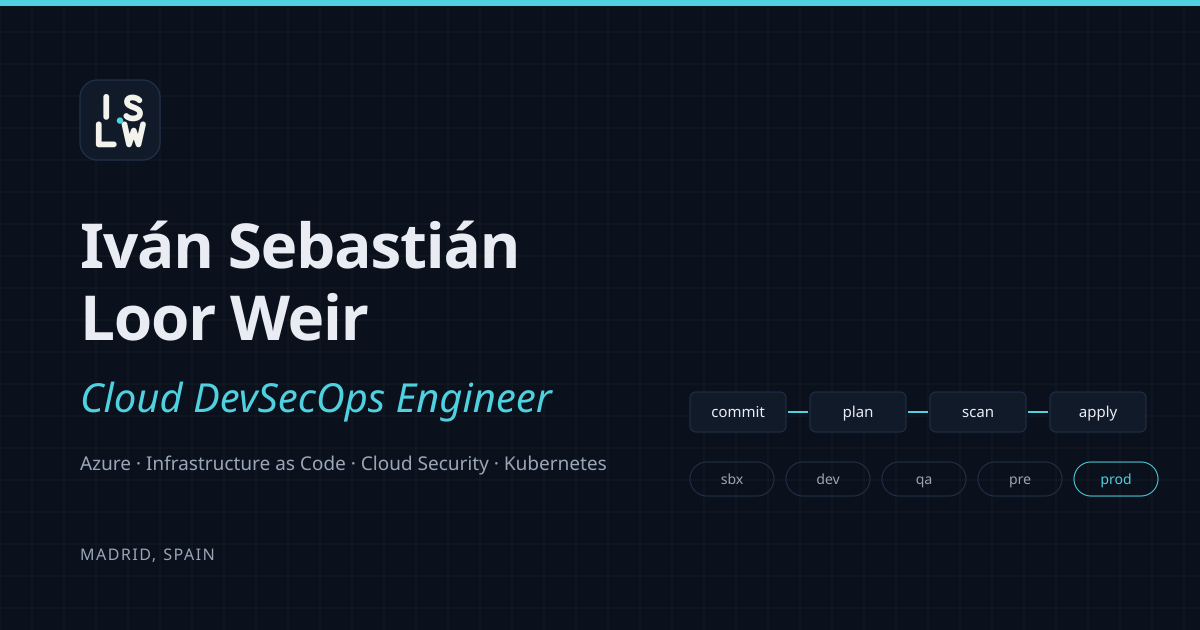
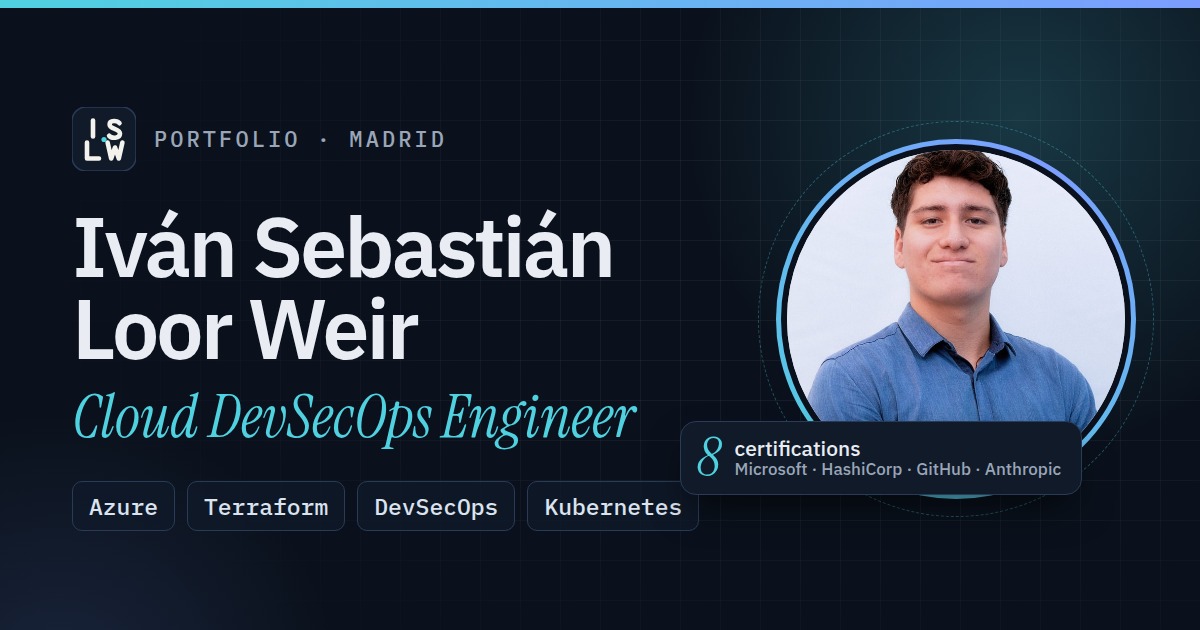
feat(brand): redesign Open Graph image for LinkedIn Featured previews
- New 1200×630 card built in HTML with the site's real typefaces and rendered
  by headless Chrome (npm run og): large name, accent title, framed portrait,
  certification badge, key technologies — legible at thumbnail size
- Certification count read from certifications.yaml; all four issuers named
- Brand-icon script no longer overwrites the OG image
- README documents the OG workflow and LinkedIn cache refresh

diff --git a/scripts/og/og-image.html b/scripts/og/og-image.html
@@ -1,0 +1,151 @@
+<!doctype html>
+<!--
+  Open Graph / LinkedIn "Featured" preview — 1200×630.
+  Rendered to public/og-image.png by scripts/generate-og-image.mjs using
+  headless Chrome, so it uses the site's real typefaces.
+
+  Small-size legibility rules: one focal name, one accent title, a portrait for
+  instant recognition, and no text below ~22px. Everything important sits
+  inside a 64px safe margin (LinkedIn may crop card edges slightly).
+-->
+<html lang="en">
+  <head>
+    <meta charset="utf-8" />
+    <style>
+      @font-face { font-family: 'Plex Sans'; font-weight: 500; src: url('{{FONTS}}/ibm-plex-sans/files/ibm-plex-sans-latin-500-normal.woff2') format('woff2'); }
+      @font-face { font-family: 'Plex Sans'; font-weight: 600; src: url('{{FONTS}}/ibm-plex-sans/files/ibm-plex-sans-latin-600-normal.woff2') format('woff2'); }
+      @font-face { font-family: 'Plex Mono'; font-weight: 500; src: url('{{FONTS}}/ibm-plex-mono/files/ibm-plex-mono-latin-500-normal.woff2') format('woff2'); }
+      @font-face { font-family: 'Instrument Serif'; font-style: italic; src: url('{{FONTS}}/instrument-serif/files/instrument-serif-latin-400-italic.woff2') format('woff2'); }
+
+      * { margin: 0; padding: 0; box-sizing: border-box; }
+      html, body { width: 1200px; height: 630px; overflow: hidden; }
+      body {
+        position: relative;
+        background: #0a111c;
+        color: #e9edf3;
+        font-family: 'Plex Sans', sans-serif;
+        -webkit-font-smoothing: antialiased;
+      }
+
+      /* Background: blueprint grid fading out, two soft glows, top accent bar */
+      .grid {
+        position: absolute; inset: 0;
+        background-image:
+          linear-gradient(rgba(233,237,243,.05) 1px, transparent 1px),
+          linear-gradient(90deg, rgba(233,237,243,.05) 1px, transparent 1px);
+        background-size: 40px 40px;
+        mask-image: radial-gradient(ellipse 85% 95% at 72% 45%, #000 30%, transparent 85%);
+      }
+      .glow-a { position: absolute; width: 760px; height: 760px; right: -200px; top: -260px;
+        background: radial-gradient(circle, rgba(79,209,224,.20), transparent 62%); }
+      .glow-b { position: absolute; width: 640px; height: 640px; left: -260px; bottom: -380px;
+        background: radial-gradient(circle, rgba(124,157,255,.14), transparent 62%); }
+      .bar { position: absolute; left: 0; top: 0; right: 0; height: 8px;
+        background: linear-gradient(90deg, #4fd1e0, #7c9dff); }
+
+      .wrap {
+        position: absolute; inset: 64px 64px 56px 72px;
+        display: grid; grid-template-columns: 1fr 360px; gap: 40px; align-items: center;
+      }
+
+      /* Left column */
+      .brand { display: flex; align-items: center; gap: 18px; }
+      .brand svg { width: 64px; height: 64px; }
+      .eyebrow {
+        font-family: 'Plex Mono', monospace; font-weight: 500;
+        font-size: 22px; letter-spacing: .14em; text-transform: uppercase; color: #9aa6b8;
+      }
+      h1 {
+        margin-top: 34px;
+        font-weight: 600; font-size: 84px; line-height: .98; letter-spacing: -.035em;
+      }
+      .title {
+        margin-top: 18px;
+        font-family: 'Instrument Serif', serif; font-style: italic;
+        font-size: 60px; line-height: 1; color: #4fd1e0;
+      }
+      .tags { display: flex; flex-wrap: wrap; gap: 12px; margin-top: 34px; }
+      .tag {
+        padding: 9px 16px; border: 1.5px solid #2a3b57; border-radius: 10px;
+        background: rgba(16,26,41,.75);
+        font-family: 'Plex Mono', monospace; font-weight: 500; font-size: 23px; color: #dbe3ee;
+      }
+
+      /* Right column: portrait + credential badge */
+      .portrait { position: relative; width: 360px; height: 360px; justify-self: end; }
+      .ring {
+        position: absolute; inset: 0; border-radius: 50%;
+        background: conic-gradient(from 210deg, #4fd1e0, #7c9dff, #4fd1e0);
+        padding: 5px;
+      }
+      .ring::after {
+        content: ''; position: absolute; inset: -18px; border-radius: 50%;
+        border: 1.5px dashed rgba(79,209,224,.35);
+      }
+      .frame {
+        width: 100%; height: 100%; border-radius: 50%; overflow: hidden;
+        border: 6px solid #0a111c; background: #dfe7f1;
+      }
+      /* Tighter crop on the face so the portrait reads at thumbnail size. */
+      .photo {
+        width: 100%; height: 100%; object-fit: cover; display: block;
+        transform: scale(1.5); transform-origin: 49% 24%;
+      }
+      .badge {
+        position: absolute; left: -96px; bottom: 4px;
+        display: flex; align-items: center; gap: 14px;
+        padding: 14px 20px 14px 16px;
+        background: #101a29; border: 1.5px solid #2a3b57; border-radius: 16px;
+        box-shadow: 0 18px 40px -12px rgba(0,0,0,.7);
+      }
+      .badge b {
+        font-family: 'Instrument Serif', serif; font-style: italic; font-weight: 400;
+        font-size: 54px; line-height: .8; color: #4fd1e0;
+      }
+      .badge span { font-size: 21px; line-height: 1.15; font-weight: 500; color: #e9edf3; }
+      .badge small { display: block; font-size: 17px; font-weight: 500; color: #9aa6b8; }
+    </style>
+  </head>
+  <body>
+    <div class="grid"></div>
+    <div class="glow-a"></div>
+    <div class="glow-b"></div>
+    <div class="bar"></div>
+
+    <main class="wrap">
+      <section>
+        <div class="brand">
+          <svg viewBox="0 0 64 64" aria-hidden="true">
+            <rect width="64" height="64" rx="14" fill="#101A29" stroke="#2a3b57" stroke-width="1.5" />
+            <g fill="none" stroke="#F4F2EC" stroke-width="4.6" stroke-linecap="round" stroke-linejoin="round">
+              <path d="M21 13.5V29.5" />
+              <path d="M47.5 16.2C45.4 13.4 37.6 12.6 37.6 17.4c0 5 10.4 3.8 10.4 9.2 0 5.2-8.6 5.1-10.9 2.2" />
+              <path d="M15 35.5V51.5h12" />
+              <path d="M35.6 35.5l3.6 16 3.8-11 3.8 11 3.6-16" />
+            </g>
+            <circle cx="32" cy="32.5" r="2.6" fill="#4FD1E0" />
+          </svg>
+          <span class="eyebrow">Portfolio · Madrid</span>
+        </div>
+
+        <h1>Iván Sebastián<br />Loor Weir</h1>
+        <p class="title">Cloud DevSecOps Engineer</p>
+
+        <div class="tags">
+          <span class="tag">Azure</span>
+          <span class="tag">Terraform</span>
+          <span class="tag">DevSecOps</span>
+          <span class="tag">Kubernetes</span>
+        </div>
+      </section>
+
+      <aside class="portrait">
+        <div class="ring"><div class="frame"><img class="photo" src="{{PHOTO}}" alt="" /></div></div>
+        <div class="badge">
+          <b>{{CERTS}}</b>
+          <span>certifications<small>Microsoft · HashiCorp · GitHub · Anthropic</small></span>
+        </div>
+      </aside>
+    </main>
+  </body>
+</html>

diff --git a/README.md b/README.md
@@ -86,11 +86,13 @@ ivan-sebastian-loor-weir-portfolio/
 │   ├── _headers                 # Cloudflare Pages security & cache headers
 │   ├── favicon.svg              # ISLW monogram (source of all icons)
 │   ├── favicon-32.png, apple-touch-icon.png, icon-512.png
-│   ├── og-image.png             # 1200×630 social preview (generated)
+│   ├── og-image.png             # 1200×630 social / LinkedIn preview (npm run og)
 │   ├── site.webmanifest
 │   └── cv/                      # (optional) approved public CV PDFs — see §7
 ├── scripts/
-│   └── generate-brand-assets.mjs  # Rebuilds PNG icons + OG image from SVG
+│   ├── generate-brand-assets.mjs  # Rebuilds PNG icons from the SVG monogram
+│   ├── generate-og-image.mjs      # Renders the OG image with headless Chrome
+│   └── og/og-image.html           # OG image layout (uses the site's web fonts)
 ├── src/
 │   ├── assets/                  # Images processed by astro:assets (profile photo)
 │   ├── components/
@@ -160,7 +162,8 @@ npm run preview    # serves dist/ at http://localhost:4321
 | `npm run build` | `astro build` | Static production build into `dist/` |
 | `npm run preview` | `astro preview` | Serve the production build locally |
 | `npm run check` | `astro check` | Type-check `.astro`/`.ts` files and content |
-| `npm run brand` | `node scripts/generate-brand-assets.mjs` | Regenerate PNG icons and `og-image.png` from the SVG monogram |
+| `npm run brand` | `node scripts/generate-brand-assets.mjs` | Regenerate PNG favicons/app icons from the SVG monogram |
+| `npm run og` | `node scripts/generate-og-image.mjs` | Render `public/og-image.png` (1200×630) from `scripts/og/og-image.html` with headless Chrome (set `CHROME_PATH` if Chrome is not on the PATH) |
 | `npm run astro` | `astro` | Astro CLI passthrough |
 
 ## 7. Content management
@@ -183,7 +186,9 @@ All content is YAML under `src/content/` and is validated by `src/content.config
 
 **Replace or publish CV files.** Copy an approved PDF to `public/cv/ivan-sebastian-loor-weir-cv-en.pdf` and/or `public/cv/ivan-sebastian-loor-weir-cv-es.pdf` (the paths are configured in `src/config/site.ts`), then rebuild. Download buttons appear automatically (`src/lib/cv.ts` checks which files exist at build time). Without files, the site shows a "Request CV" email link. Use a public version of the CV, for example one without a phone number.
 
-**Images and brand assets.** Replace `src/assets/profile.jpg` (square, at least 640 px; strip EXIF metadata first). Responsive WebP versions are generated at build time. After changing `public/favicon.svg` or the OG copy, run `npm run brand`.
+**Images and brand assets.** Replace `src/assets/profile.jpg` (square, at least 640 px; strip EXIF metadata first). Responsive WebP versions are generated at build time. After changing `public/favicon.svg`, run `npm run brand`.
+
+**Social preview (Open Graph / LinkedIn Featured).** `public/og-image.png` is a 1200×630 card designed to read at thumbnail size: name, title, portrait and certification count. Edit the layout in `scripts/og/og-image.html` and run `npm run og`. The certification count is read from `certifications.yaml`, and the portrait from `src/assets/profile.jpg`. LinkedIn caches previews; after changing the image, refresh it with the LinkedIn Post Inspector.
 
 ## 8. Internationalization
 
